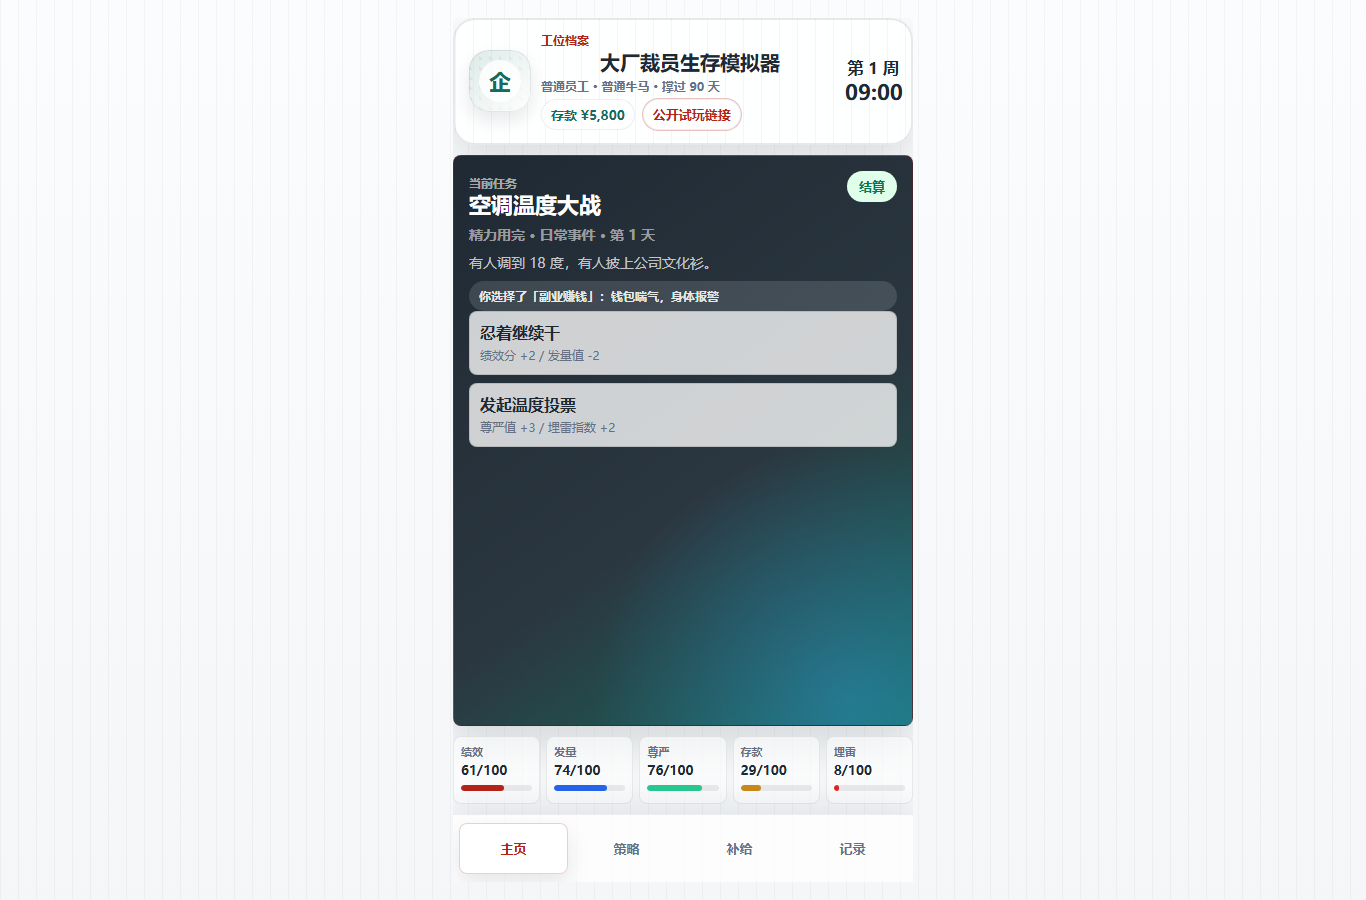
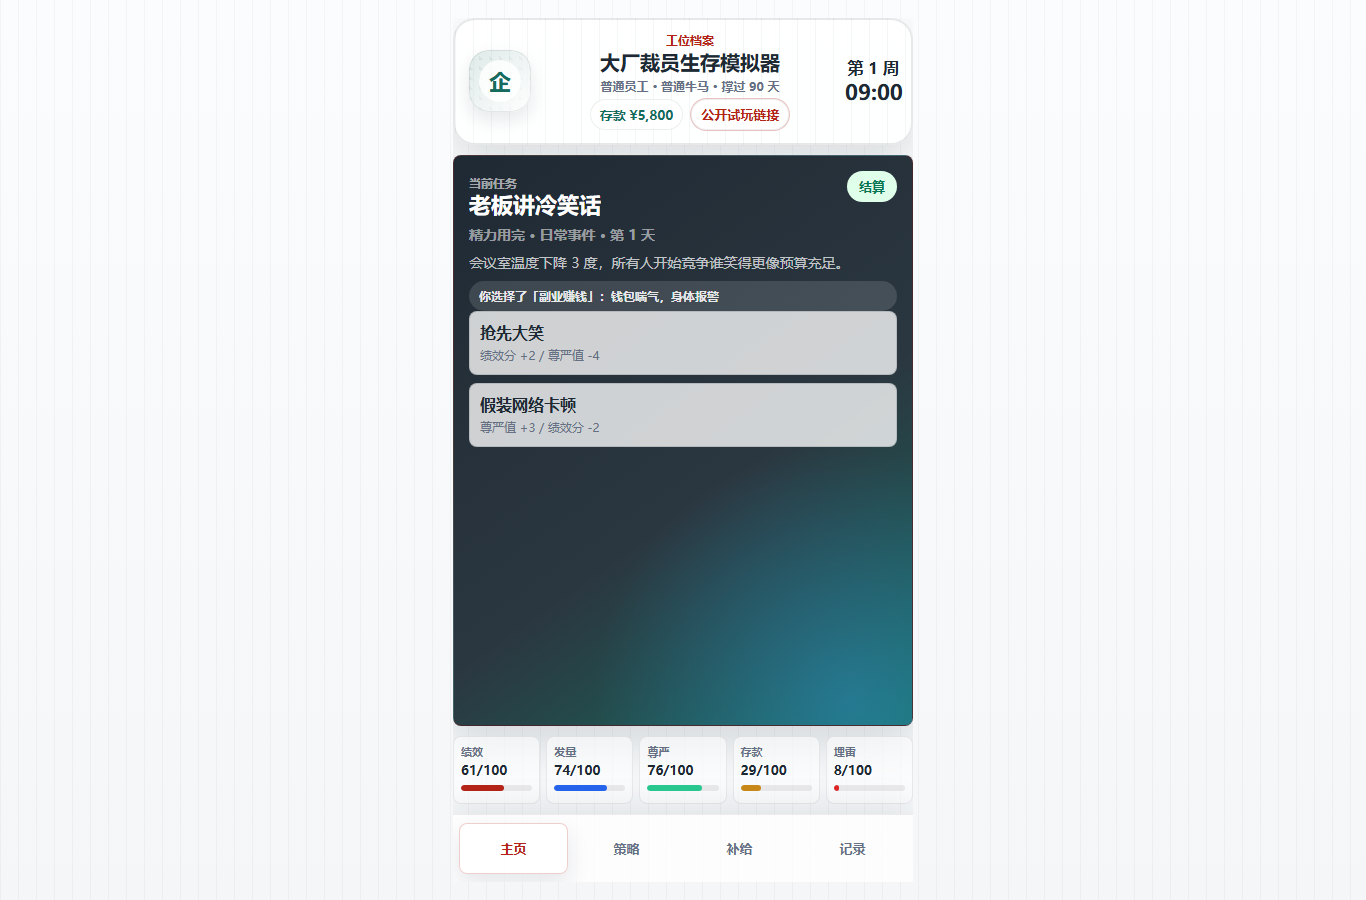
fix: center mobile profile details

diff --git a/src/styles.css b/src/styles.css
@@ -149,15 +149,18 @@ button:disabled {
   min-width: 0;
   display: grid;
   grid-template-columns: minmax(0, 1fr) auto;
-  align-items: end;
+  align-items: center;
+  justify-items: center;
   gap: 4px 8px;
 }
 
 .work-brief .work-kicker {
   grid-column: 1 / -1;
+  width: 100%;
   color: var(--risk);
   font-size: 12px;
   font-weight: 1000;
+  text-align: center;
 }
 
 .work-brief strong {
@@ -172,9 +175,11 @@ button:disabled {
 
 .work-brief small {
   grid-column: 1 / -1;
+  width: 100%;
   color: var(--muted);
   font-size: 12px;
   font-weight: 700;
+  text-align: center;
 }
 
 .header-actions {
@@ -182,6 +187,7 @@ button:disabled {
   display: flex;
   flex-wrap: wrap;
   align-items: center;
+  justify-content: center;
   gap: 7px;
 }
 
@@ -1079,7 +1085,6 @@ button:disabled {
 
   .status-copy-button,
   .balance-chip {
-    justify-self: start;
     padding: 6px 8px;
     font-size: 12px;
   }

diff --git a/tests/game.test.js b/tests/game.test.js
@@ -672,11 +672,12 @@ test('mobile header reserves avatar slot and moves week clock right', () => {
   assert.ok(styles.includes('grid-template-columns: 62px minmax(0, 1fr);'));
   assert.ok(styles.includes('grid-template-columns: minmax(0, 1fr) 54px;'));
   assert.ok(styles.includes('text-align: center;'));
+  assert.ok(styles.includes('justify-content: center;'));
   assert.equal(styles.includes('grid-template-columns: 64px minmax(0, max-content);'), false);
   assert.ok(styles.includes('.account-avatar'));
   assert.ok(smoke.includes('头像在左周次在右'));
   assert.ok(smoke.includes('顶部内容分布均衡'));
-  assert.ok(smoke.includes('标题居中且更宽'));
+  assert.ok(smoke.includes('档案信息整体居中且更宽'));
 });
 
 test('mobile header shows savings total beside launch link', () => {

diff --git a/index.html b/index.html
@@ -5,10 +5,10 @@
     <meta name="viewport" content="width=device-width, initial-scale=1.0" />
     <title>大厂裁员生存模拟器</title>
     <link rel="icon" type="image/svg+xml" href="./favicon.svg" />
-    <link rel="stylesheet" href="./src/styles.css?v=mobile-header-title-center-20260802" />
+    <link rel="stylesheet" href="./src/styles.css?v=mobile-header-profile-center-20260802" />
   </head>
   <body>
     <main id="app" class="app" aria-live="polite"></main>
-    <script type="module" src="./src/main.js?v=mobile-header-title-center-20260802"></script>
+    <script type="module" src="./src/main.js?v=mobile-header-profile-center-20260802"></script>
   </body>
 </html>

diff --git a/docs/qa/m17-browser-smoke-report.md b/docs/qa/m17-browser-smoke-report.md
@@ -2,7 +2,7 @@
 
 整体状态：PASS
 测试地址：http://127.0.0.1:4173/
-生成时间：2026-08-02T12:18:01.636Z
+生成时间：2026-08-02T12:26:15.415Z
 检查项：36/36 通过
 控制台错误：0
 
@@ -32,7 +32,7 @@
 | 行动属性可见 | PASS | 每张行动卡展示加减属性 |
 | 头像在左周次在右 | PASS | 顶部头像位在左，周次时间在右 |
 | 顶部内容分布均衡 | PASS | 头像和标题组成账号区，右侧时间旁没有大段空白 |
-| 标题居中且更宽 | PASS | 头像靠左一点，标题档案区域更宽，游戏名在信息区居中 |
+| 档案信息整体居中且更宽 | PASS | 工位档案、游戏名、员工说明、存款和链接都在档案区域居中 |
 | 首页不抢推广告 | PASS | 每日 Buff 已移到补给页 |
 | 复制试玩链接入口 | PASS | 公开试玩链接有复制按钮 |
 | 精力用完提示 | PASS | 包含文本：精力用完 |
@@ -58,7 +58,7 @@
 | 行动属性可见 | PASS | 每张行动卡展示加减属性 |
 | 头像在左周次在右 | PASS | 顶部头像位在左，周次时间在右 |
 | 顶部内容分布均衡 | PASS | 头像和标题组成账号区，右侧时间旁没有大段空白 |
-| 标题居中且更宽 | PASS | 头像靠左一点，标题档案区域更宽，游戏名在信息区居中 |
+| 档案信息整体居中且更宽 | PASS | 工位档案、游戏名、员工说明、存款和链接都在档案区域居中 |
 | 首页不抢推广告 | PASS | 每日 Buff 已移到补给页 |
 | 复制试玩链接入口 | PASS | 公开试玩链接有复制按钮 |
 | 精力用完提示 | PASS | 包含文本：精力用完 |
